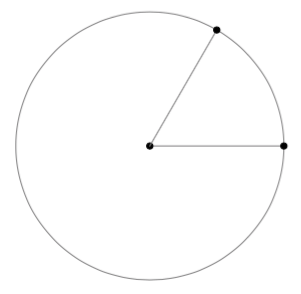
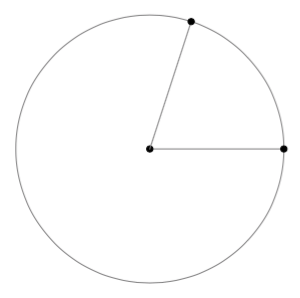
Muoks

diff --git a/kurssit/maa3/luku2/index.html b/kurssit/maa3/luku2/index.html
@@ -444,7 +444,7 @@ topnav: maa3
             </p>
 
             <p>
-                Seuraavassa tehtävässä harjoitellaan piirtämään säännöllinen kuusikulmio. Sitä ennen sovitaan vielä, mitä tarkoitetaan täydellä kulmalla eli täyskulmalla.
+                Seuraavassa tehtävässä harjoitellaan piirtämään säännöllinen viisikulmio. Sitä ennen sovitaan vielä, mitä tarkoitetaan täydellä kulmalla eli täyskulmalla.
             </p>
 
             <div class="definition">
@@ -461,13 +461,13 @@ topnav: maa3
                     <header>
                         <h1>
                             <a data-toggle="collapse" class="collapsed" data-target="#taso18">
-                                SÄÄNNÖLLINEN KUUSIKULMIO
+                                SÄÄNNÖLLINEN VIISIKULMIO
                             </a>
                         </h1>
                     </header>
                     <div id="taso18" class="collapse">
                         <p>
-                            Tässä tehtävässä piirretään säännöllinen kuusikulmio.
+                            Tässä tehtävässä piirretään säännöllinen viisikulmio.
                         </p>
                         <ol class="a">
                             <li>
@@ -476,23 +476,23 @@ topnav: maa3
                                 <img src="/kurssit/maa3/kuvat/tasoK25.png" style="max-width: 100%; width: auto; height: auto;"/>
                             </li>
                             <li> 
-                                Jaa täysi kulma eli $360^\circ$ kuuteen osaan (koska piirretään kuusikulmiota). Piirrä kolmioviivaimen avulla tämän suuruinen kulma, jonka kärki on ympyrän keskipisteessä ja toinen kylki on äsken piirtämäsi jana. Merkitse toisen kyljen ja ympyrän kehän leikkauspiste näkyviin.
+                                Jaa täysi kulma eli $360^\circ$ viiteen osaan (koska piirretään viisikulmiota). Piirrä kolmioviivaimen avulla tämän suuruinen kulma, jonka kärki on ympyrän keskipisteessä ja toinen kylki on äsken piirtämäsi jana. Merkitse toisen kyljen ja ympyrän kehän leikkauspiste näkyviin.
                                 <br>
                                 <img src="/kurssit/maa3/kuvat/tasoK26.png" style="max-width: 100%; width: auto; height: auto;"/>
                             </li>
                             <li>
-                                Piirrä lisää samanlaisia kulmia, kunnes olet saanut ympyrän kehälle kuusi pistettä.
+                                Piirrä lisää samanlaisia kulmia, kunnes olet saanut ympyrän kehälle viisi pistettä.
                                 <br>
                                 <img src="/kurssit/maa3/kuvat/tasoK27.png" style="max-width: 100%; width: auto; height: auto;"/>
                             </li>
                             <li>
-                                Muodosta kuusikulmio yhdistämällä ympyrän kehällä olevat pisteet janoilla. 
+                                Muodosta viisikulmio yhdistämällä ympyrän kehällä olevat pisteet janoilla. 
                             </li>
                             <li>
-                                Kuinka suuria ovat syntyneen kuusikulmion kulmat? Voit päätellä kulmien suuruuden kuvion tasakylkisten kolmioiden avulla tai hyödyntää teoreemaa 11.
+                                Kuinka suuria ovat syntyneen viisikulmion kulmat? Voit päätellä kulmien suuruuden kuvion tasakylkisten kolmioiden avulla tai hyödyntää teoreemaa 11.
                             </li>
                             <li>
-                                Jos ympyrän säde on 3, mikä on yllä kuvatulla tavalla piirretyn kuusikulmion sivun pituus? 
+                                Jos ympyrän säde on 3, mikä on yllä kuvatulla tavalla piirretyn viisikulmion sivun pituus? 
                                 <br>
                                 Vinkki: kosinilause.
                             </li>
